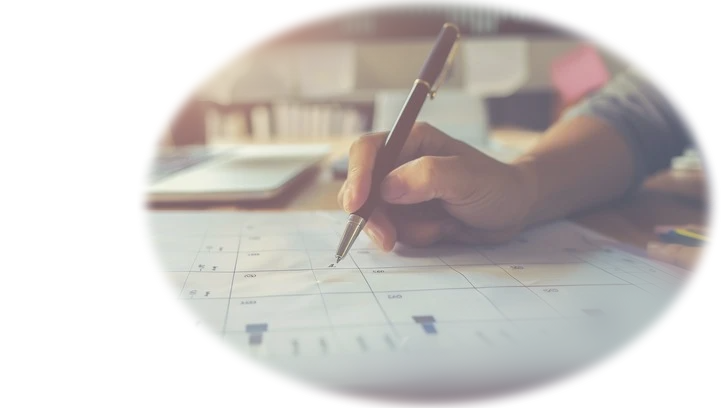
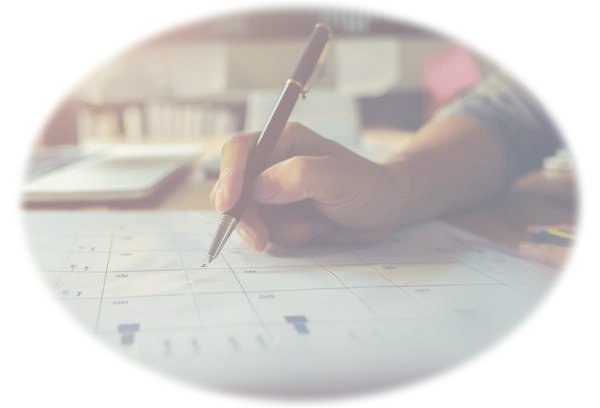
Melhoria no layout da página inicial e adição de seção de ferramentas

diff --git a/client/src/components/Home.jsx b/client/src/components/Home.jsx
@@ -1,6 +1,6 @@
 import React from "react";
 import Header from "./Header";
-import img from "./../img/handwritingIMG.png"
+import img from "../img/handwritingIMG.png"
 
 function Home() {
     return (
@@ -11,11 +11,26 @@ function Home() {
                     <h1>O sucesso começa com uma boa organização</h1>
                     <h2>Use o CollabTask para gerenciar seus projetos e fluxos de trabalho</h2>
                 </div>
-                <img src={img} alt="" width={550} />
+                <img src={img} alt="" />
             </section>
             <section className="descSection">
-                <h2>Aumente sua produtividade</h2>
-                Confira algumas das ferramentas disponíveis:
+                <h2 align="center">Aumente sua produtividade</h2>
+                <p align="center">Confira algumas das ferramentas disponíveis:</p>
+                <div className="tools-list">
+                    <div className="tools-list__item">
+                        <h3>Organize seus projetos</h3>
+                        <p>Adicione novos projetos, edite informações básicas e exclua projetos antigos</p>
+                    </div>
+                    <div className="tools-list__item">
+                        <h3>Notas de trabalho</h3>
+                        <p>Adicione notas de trabalho para manter suas ideias organizadas e acessíveis</p>
+                    </div>
+                    <div className="tools-list__item">
+                        <h3>Lista de tarefas</h3>
+                        <p>Crie listas de tarefas para organizar seu fluxo de trabalho e aumentar sua produtividade</p>
+                    </div>
+                </div>
+
             </section>
         </>
     )

diff --git a/client/src/App.css b/client/src/App.css
@@ -48,16 +48,41 @@ header nav a:first-child {
   justify-content: center;
   align-items: center;
   width: 100vw;
-  height: 650px;
-  box-shadow: 0px 10px 12px #0004;
+  min-height: 90svh;
+  padding: 20px 0;
+  flex-direction: column-reverse;
 }
+
 .homeSection div {
-  text-align: left;
-  width: 30%;
+  text-align: center;
+  width: 80%;
 }
-.homeSection h2{
+
+.homeSection h2 {
   opacity: 0.8;
-  font-size: .8em;
+  font-size: 0.8em;
+}
+
+.homeSection img {
+  width: 70vw;
+  margin: 70px 0 20px;
+}
+
+@media (min-width: 768px) {
+  .homeSection {
+    flex-direction: row;
+    justify-content: space-evenly;
+  }
+
+  .homeSection div {
+    width: 30%;
+    text-align: left
+  }
+
+  .homeSection img {
+    width: 30vw;
+    margin-bottom: 0;
+  }
 }
 .descSection{
   font-size: 1.2em;
@@ -352,4 +377,36 @@ button:hover {
   font-size: .8em;
   display: flex;
   align-items: center;
+}
+.tools-list{
+  display: flex;
+  flex-direction: row;
+  justify-content: space-evenly;
+  width: 100%;
+}
+
+.tools-list__item{
+  margin: 0 4px;
+  cursor: pointer;
+  border: 1px solid black;
+  border-radius: 4px;
+  text-align: center;
+  background-color: #eee;
+  padding: 22px;
+  width: 22vw;
+  display: flex;
+  flex-direction: column;
+  justify-content: space-evenly;
+}
+
+@media (max-width: 768px) {
+  .tools-list {
+    flex-direction: column;
+    align-items: center;
+    gap: 20px;
+  }
+
+  .tools-list__item {
+    width: 80%;
+  }
 }
